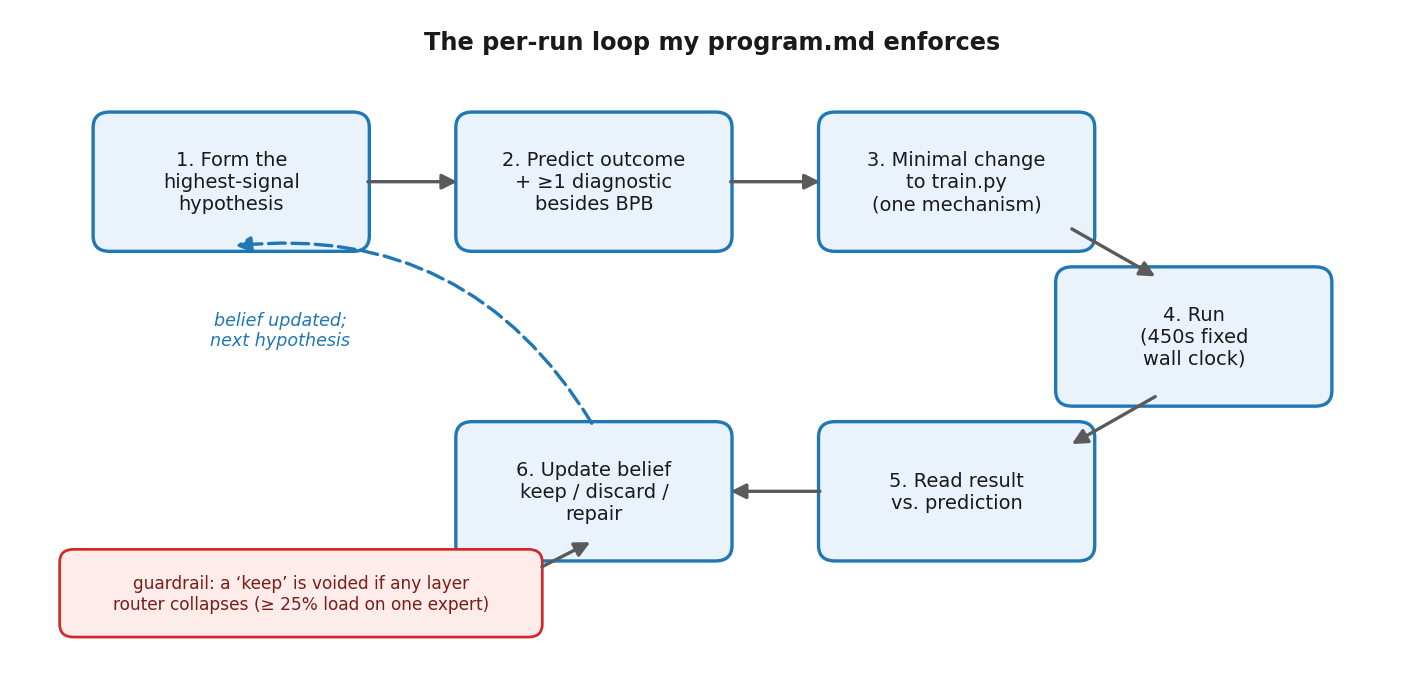
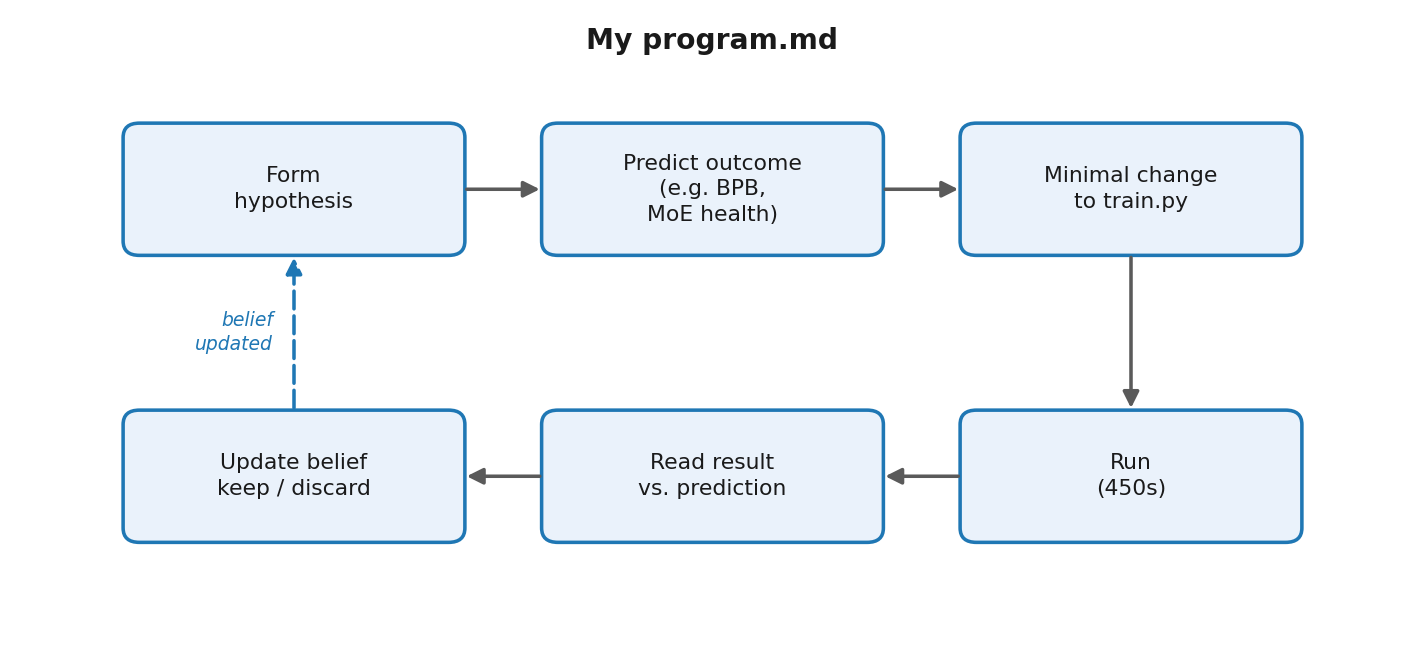
update post

diff --git a/_posts/2026-06-11-speedrunning-moe-architectures.md b/_posts/2026-06-11-speedrunning-moe-architectures.md
@@ -20,21 +20,14 @@ After the [diffusion LM project](/blog/how-long-ar-before-diffusion/), I felt li
 
 **Tl;dr** I didn't manage to get autoresearch to generate interesting ideas that actually work. With Karpathy's `program.md`, Codex (5.5 xhigh) basically just swept a finer and finer grid of hyperparameters. I then iterated through a few versions of the program, eventually getting it to run literature search and propose research, but none of the ideas panned out in the end. This could well be a test-time-compute issue — I only let it work over one night max per attempt. So in the end I did the idea-generation myself and asked Codex to implement techniques like XSA, gated attention, and so on. The one trick Codex found on its own that did work: under a fixed wall-clock budget, making the first two FFN layers dense helps, mostly because it trains faster. To see whether these interventions survive at scale, I wrote a second program for scaling-law experiments, asked Codex to implement and babysit the runs, and collected the results. Excitingly, the gains look real at ~10× the original scale and aren't diminishing! Though of course we'd need to go well beyond the $$\sim 4\times 10^{19}$$ FLOPs of our biggest run to be sure.
 
-For the impatient, here is the speedrun leaderboard — every intervention that became the new fixed-wall best (how each works: Appendix A; how they were found: Phase 1):
+For the impatient, here is the whole speedrun at a glance — every intervention that became the new fixed-wall best, stacking up to −1.75% BPB (how each works: Appendix A; how they were found: Phase 1):
 
-| # | intervention | val BPB | Δ vs prev | cumulative |
-|---|---|---|---|---|
-| 0 | clean simple backbone, LR 0.003 | 0.954881 | — | — |
-| 1 | fixed value mix $$0.5 v_1 + 0.5 v_\ell$$ | 0.947597 | 0.763% | 0.763% |
-| 2 | value mix $$0.75 v_1 + 0.25 v_\ell$$ | 0.945791 | 0.191% | 0.952% |
-| 3 | sigmoid affinities + expert bias + load-balance 0.003 | 0.942848 | 0.311% | 1.260% |
-| 4 | exclusive self-attention | 0.940518 | 0.247% | 1.504% |
-| 5 | headwise attention gate, init 0.95 | 0.940352 | 0.018% | 1.522% |
-| 6 | headwise attention gate, init 0.98 | 0.940076 | 0.029% | 1.550% |
-| 7 | first FFN layer dense | 0.938510 | 0.167% | 1.714% |
-| 8 | first two FFN layers dense | 0.938179 | 0.035% | **1.749%** |
+<figure>
+  <img src="/assets/images/speedrun_progression.png" alt="Phase 1 fixed-wall leaderboard progression from 0.9549 to 0.9382 BPB across eight interventions">
+  <figcaption>The speedrun staircase. Eight successive fixed-wall bests, cumulative −1.75% BPB. Not shown: the much larger number of runs that died on this hill.</figcaption>
+</figure>
 
-A bunch of disclaimers upfront: our MoE router might be suboptimally tuned, though I put significant effort into making it at least *look* healthy; the scaling curve has fewer data points than I'd like; everything is single-seed; and there are no layer-specific hyperparameters like &mu;P (so the embedding layer is likely undertrained), though I did sweep the global learning rate at each scale.
+A bunch of **disclaimers** upfront: our MoE router might be suboptimally tuned, though I put significant effort into making it at least *look* healthy; the scaling curve has fewer data points than I'd like; everything is single-seed; and there are no layer-specific hyperparameters like &mu;P (so the embedding layer is likely undertrained), though I did sweep the global learning rate at each scale.
 
 Still, I'm writing it up anyway. This is a learning process, and hopefully by exposing the process (mistakes included) I can collect some dense reward signals from the experts out there. Let me know if you have any feedback!
 
@@ -71,7 +64,7 @@ Concretely, every run has to walk through this loop:
   <figcaption>The per-run loop the program enforces. The point isn't the boxes; it's that you must write the prediction <em>before</em> the run, so a result can actually surprise you.</figcaption>
 </figure>
 
-> The key discipline is: **pre-register the hypothesis before launching the run, then update the belief after reading the result.** Do not blindly try changes; chase the highest signal.
+> The key discipline is: **write down the hypothesis before launching the run, then update the belief after reading the result.** Do not blindly try changes; chase the highest signal.
 
 Every run entry must contain a pre-run hypothesis, an expected result, the observed result, an interpretation, an explicit `agrees with hypothesis: yes/no/partial`, and a decision. Here's a representative entry from the log, the one where exclusive self-attention got promoted to baseline:
 
@@ -81,7 +74,8 @@ Every run entry must contain a pre-run hypothesis, an expected result, the obser
 >
 > **Observed result:** `val_bpb 0.940518` […] validation improved by `0.002330` BPB. Router health remained acceptable: mean load CV `0.094`, max-layer max load `0.122` […]
 >
-> **Agrees with hypothesis:** yes. **Decision:** keep as current best.
+> **Agrees with hypothesis:** yes. 
+> **Decision:** keep as current best.
 
 Note the expected result names a *router diagnostic*, not just BPB — so the run can fail in an interpretable way (a BPB gain bought with router damage would have been a discard, not a keep). As I write this, I realize what I'm really describing is something like *active learning*: pick the next experiment to maximize information gain. Maybe that's the paradigm I'd advocate for AI scientists.
 
@@ -95,15 +89,7 @@ And I have to say, the output *looks* like research. A representative selection 
 >
 > **Why these two:** They preserve the simple "future supervision" insight without requiring data labels or a new optimizer. TOP wins the first follow-up slot because it can be implemented by gathering logits for future targets and adding a small pairwise ranking loss.
 
-The reading list it built is genuinely diverse and high-signal — selective token losses (Rho-1 style), multi-token and ranking objectives, JEPA-style latent targets, curriculum and data-ordering tricks — and the queue is sensibly prioritized by implementation cost. It even surfaced a real repo-specific insight on its own: the training objective and the eval metric don't line up. Training minimizes the mean cross-entropy over *all* target tokens,
-
-$$\mathcal{L}_{\text{train}} = \frac{1}{N}\sum_{t=1}^{N} \text{CE}_t,$$
-
-while the benchmark (reading the actual `evaluate_bpb`) sums cross-entropy over only the *non-special* tokens and normalizes by total bytes,
-
-$$\text{BPB} = \frac{1}{\ln 2}\cdot\frac{\sum_{t:\, b_t > 0} \text{CE}_t}{\sum_{t} b_t}, \qquad b_t = \text{byte length of token } t,$$
-
-so the zero-byte special tokens (BOS and friends) are dropped from the numerator entirely. Two mismatches fall out: training spends gradient on special tokens the metric ignores, and it normalizes per *token* rather than per *byte*. Codex's proposed one-line fix was to byte-weight the per-token CE; amusingly, when I worked through the evaluator above I think byte-weighting actually over-counts long tokens, and the cleaner alignment is just to mask the zero-byte targets — but either way, "objective ≠ metric" is exactly the kind of thing worth catching, and chasing it down is queued for the next phase.
+The reading list it built is genuinely diverse and high-signal — selective token losses (Rho-1 style), multi-token and ranking objectives, JEPA-style latent targets, curriculum and data-ordering tricks — and the queue is sensibly prioritized by implementation cost. One idea I found genuinely novel: a *byte-weighted* cross-entropy, where each token's loss is scaled by its byte length, on the reasoning that the eval metric (BPB) is measured per byte. I don't think it's especially well-motivated in the end — the standard per-token cross-entropy is already aligned with BPB up to a constant — and when we actually tried it, it didn't help. But I'd never seen it before, and "invent a plausible-looking loss I haven't seen" is at least a different failure mode from "tweak the learning rate."
 
 But when its ideas were actually implemented and tested, none of them earned a keep. My current guess is test-time compute: one night is enough to scan and rank a literature, but probably not enough to iterate on any single idea until the finicky details that make a paper's trick work are faithfully reproduced. I'd honestly like to be wrong here, and I want to rerun this loop someday with a much bigger inference budget.
 
@@ -118,12 +104,19 @@ The details follow.
 
 ### The speedrun
 
-The starting point is deliberately boring: an 8-layer, 768-dim transformer, 16 experts with top-2 routing and softmax token-choice, GQA + RoPE + QK-norm. From there, Codex worked through the intervention queue. The leaderboard at the top of the post lists every run that became the new best; rather than narrate all ~30 runs, here is the progression at a glance and then the three stories I think teach the most.
+The starting point is deliberately boring: an 8-layer, 768-dim transformer, 16 experts with top-2 routing and softmax token-choice, GQA + RoPE + QK-norm. From there, Codex worked through the intervention queue. Here is the full leaderboard — every run that became the new best (math and code for each in Appendix A); rather than narrate all ~30 runs, I'll then tell the three stories I think teach the most.
 
-<figure>
-  <img src="/assets/images/speedrun_progression.png" alt="Phase 1 fixed-wall leaderboard progression from 0.9549 to 0.9382 BPB across eight interventions">
-  <figcaption>The speedrun staircase. Eight successive fixed-wall bests, cumulative −1.75% BPB. Not shown: the much larger number of runs that died on this hill. Math and code for each intervention are in Appendix A.</figcaption>
-</figure>
+| # | intervention | val BPB | Δ vs prev | cumulative |
+|---|---|---|---|---|
+| 0 | clean simple backbone, LR 0.003 | 0.954881 | — | — |
+| 1 | fixed value mix $$0.5 v_1 + 0.5 v_\ell$$ | 0.947597 | 0.763% | 0.763% |
+| 2 | value mix $$0.75 v_1 + 0.25 v_\ell$$ | 0.945791 | 0.191% | 0.952% |
+| 3 | sigmoid affinities + expert bias + load-balance 0.003 | 0.942848 | 0.311% | 1.260% |
+| 4 | exclusive self-attention | 0.940518 | 0.247% | 1.504% |
+| 5 | headwise attention gate, init 0.95 | 0.940352 | 0.018% | 1.522% |
+| 6 | headwise attention gate, init 0.98 | 0.940076 | 0.029% | 1.550% |
+| 7 | first FFN layer dense | 0.938510 | 0.167% | 1.714% |
+| 8 | first two FFN layers dense | 0.938179 | 0.035% | **1.749%** |
 
 #### Story 1: the value residual that failed, and the diagnostic that explained why
 
@@ -192,12 +185,20 @@ So maybe I was wrong: sparser is not always better, even with effectively infini
 | F3 | 352M | 7.0B | 0.765974 | — | — |
 | F4 | 565M | 11.3B | 0.736565 | — | — |
 
+Since each size is trained roughly Chinchilla-optimally (~20 tokens per active parameter), I can put all five full-recipe points on a single compute axis, $$C = 6ND$$ FLOPs (with $$N$$ active params and $$D$$ tokens), and ask whether they follow a scaling law. The usual form is a power law with an irreducible-loss offset,
+
+$$L(C) = \frac{A}{C^{\alpha}} + B.$$
+
+Fitting this to the four smaller points (S75–F3) and holding out F4 turns out to be instructive: with only four points the offset $$B$$ is badly under-determined — left unconstrained it runs to a nonsensical negative value, and the moment I bound it to be physical it collapses to $$B = 0$$. In other words, over this ~20× span of fitted compute the data simply don't yet bend enough to pin down a floor; they're well described by a plain power law, $$L \approx 0.888\,(C/10^{18})^{-0.055}$$. The exponent is tiny — loss falls slowly in compute, as it always does for language models — but the fit is clean (residuals under 0.005 BPB).
+
+Extrapolating that fit out to F4's compute ($$3.8\times10^{19}$$ FLOPs, ~2.6× beyond the last fitted point) predicts BPB **0.728**, while the actual F4 run came in at **0.737** — about **1.2% higher** than the trend. So the held-out point lands close, but on the *worse* side: F4 slightly underperforms its own extrapolation. That's the expected direction if F4 is a touch undertrained — recall its lower-LR arm was aborted before finishing — so I read this less as "the scaling law broke" and more as "I didn't tune F4 as carefully as the smaller points." Either way, a single held-out decade of compute landing within ~1% is more than I expected from five single-seed runs.
+
 <figure>
-  <img src="/assets/images/scaling_full_vs_simple.png" alt="Left: compute-optimal validation BPB vs active parameters for the full recipe (S75 through F4), the simple control (S75 through F2), and the all-MoE ablation (S75 through F2, with a router warning marker at F1). Right: grouped bars of relative BPB reduction vs the simple control — full recipe: 1.49%, tie, 2.72%; all-MoE: 1.83%, 1.87%, 2.36%">
-  <figcaption>Left: the compute-optimal curves. The full recipe scales smoothly to 565M active params with healthy routing throughout; the dashed all-MoE ablation (next section) is the same recipe minus the dense stem. Right: the architecture gap vs the simple control. The full recipe's gap is scale-positive but non-monotone, with a dead tie at F1; the all-MoE gap is consistent at every size. The non-monotonicity was the dense stem's doing.</figcaption>
+  <img src="/assets/images/scaling_full_vs_simple.png" alt="Compute-optimal validation BPB versus training FLOPs. The full-recipe points (S75 through F4) follow a blue power-law fit trained on S75 through F3, drawn solid and extrapolated as a dotted line to F4, where the predicted 0.728 sits just below the actual 0.737. The simple control and all-MoE ablation curves run from S75 to F2.">
+  <figcaption>Compute-optimal scaling on a $$C=6ND$$ FLOPs axis. The blue power-law fit on S75–F3 (solid, dotted past F3) extrapolates to F4 within ~1.2% — the open circle is the prediction, the filled point the actual. The full recipe scales smoothly to 565M active params with healthy routing throughout; the all-MoE ablation (dashed green, next section) drops the dense stem.</figcaption>
 </figure>
 
-A few observations:
+A few more observations:
 
 **The stack scales mechanically and stays healthy.** Up to 565M active (3.3B total) parameters, there were no divergences, no router collapse, and near-uniform max-layer expert load at every size. That sounds like faint praise, but it isn't: the simple control at F2 suffered repeated transient loss spikes above 6 during training and finished with a mean load CV of 0.52, against the full recipe's 0.075. Part of what the intervention stack buys is apparently not lower loss but *lower variance and router sanity at scale* — which, at real scale, is worth more than the BPB itself, since a diverged run returns nothing.
 
@@ -207,7 +208,7 @@ A few observations:
 
 The two-dense stem is a crutch, and in the long run I'd like to drop it — once I've learned the modern tricks for stabilizing pure MoEs (Quantile Balancing, etc.), the early dense layers shouldn't be necessary. So I ran the **all-MoE ablation**: the full intervention stack with the dense stem removed, every FFN layer sparse. The result was the most surprising of the project, and it's what made me rewrite my reading of the whole curve.
 
-At small scale, all-MoE *wins*: it beats the two-dense recipe by 0.0031 BPB at S75 and by a striking 0.0167 BPB at F1 (0.875 vs 0.892). Recompute the gap-vs-simple curve using all-MoE instead, and the embarrassing non-monotonicity nearly vanishes — 1.83% at S75, 1.87% at F1, 2.36% at F2 (the green bars in the figure above). In other words, the *quality* gain from the intervention bundle was consistent across scales all along; the F1 tie was the dense stem quietly giving that gain back. Under the fixed-wall speedrun, the stem's throughput advantage hid this completely; under compute-optimal budgets, where speed buys nothing, the first two dense layers turn out to be a quality *cost* at small scale.
+At small scale, all-MoE *wins*: it beats the two-dense recipe by 0.0031 BPB at S75 and by a striking 0.0167 BPB at F1 (0.875 vs 0.892) — that's the dashed green curve dipping below the blue one at the left of the figure. Recompute the gap against the simple control using all-MoE instead of the two-dense recipe, and the embarrassing non-monotonicity nearly vanishes: 1.83% at S75, 1.87% at F1, 2.36% at F2. In other words, the *quality* gain from the intervention bundle was consistent across scales all along; the F1 tie was the dense stem quietly giving that gain back. Under the fixed-wall speedrun, the stem's throughput advantage hid this completely; under compute-optimal budgets, where speed buys nothing, the first two dense layers turn out to be a quality *cost* at small scale.
 
 But — and this is why I can't just delete the stem yet — the all-MoE F1 run finished with one router layer at max load 0.253, just over my 0.25 safety threshold, the only compute-optimal run in the whole project to cross it. And at F2 all-MoE flips to *losing*: 0.0031 BPB worse and meaningfully slower (23.5% vs 25.7% MFU, since every layer now pays dispatch overhead). The pattern across the three sizes is uncomfortable: at LR 0.003 the all-MoE model grows a hot layer as it scales; at F2's gentler LR 0.001 it stays clean but can't keep up. Either you flirt with instability or you pay a tax to avoid it. Seen this way, the dense stem was never really a quality intervention — it's a *stabilizer* whose price grows with the compute budget, which is presumably why DeepSeek-V3 (trained at fixed token budgets, not fixed wall-clock) still ships dense early layers: at their scale, the insurance is worth it.
 
@@ -218,7 +219,7 @@ The model I actually want — fully sparse, no crutch, stable at every size — 
 
 Working with an AI agent on a research project was genuinely fun, and it made the whole learning experience much faster. For my own benefit, let me record where I land on "AI as an AI researcher" right now:
 
-**Great at:** execution fidelity, log discipline, and *negative-result hygiene*. It never quietly dropped a failed run, always wrote down matched-step comparisons with exact numbers, aborted runs against pre-registered criteria instead of hope, and once spent a whole diagnostic run instrumenting gradients to figure out *why* an idea failed rather than just recording *that* it did (this took some context engineering on my part; see Story 1). A surprising fraction of human research pathology is simply absent by default.
+**Great at:** execution fidelity, log discipline, and *negative-result hygiene*. It never quietly dropped a failed run, always wrote down matched-step comparisons with exact numbers, aborted runs against criteria written down in advance instead of on hope, and once spent a whole diagnostic run instrumenting gradients to figure out *why* an idea failed rather than just recording *that* it did (this took some context engineering on my part; see Story 1). A surprising fraction of human research pathology is simply absent by default.
 
 **Bad at:** knowing which question is worth asking next. Its failure mode isn't laziness — it's a kind of diligent myopia, generating an endless sequence of locally-justified next steps down whatever gradient is in front of it (finer LR grids, an eighth depth-scaling variant). And when I explicitly asked for creativity via the literature-search program, I got ideas that *sounded* interesting but didn't land — plausibly for lack of iteration compute, as I keep saying.
 
@@ -340,7 +341,7 @@ class Block(nn.Module):
 
 For completeness, everything that was tried and rejected in the clean lineage, with the one-line reason. Learned scalar first-value residual (disturbed routing before helping; see Story 1). Learned and normalized-learned value mixes (stabilizable by the sigmoid/bias router, but quality never matched the fixed mix). Aggressive fixed mixes 2:1, 3:1 (worse matched-step loss even with a healthy router — a quality failure, not a stability one). Fine-grained experts 32/top-4/896 (lost three times, ~0.018 BPB, despite cleaner per-expert load). Sigmoid affinities *without* bias (early matched-step edge that evaporated by run end). Softmax + light load-balance control (the run that earned the router its keep). Eight depth-scaling variants (every placement of $$1/\sqrt{\ell}$$ lost; internal worst, output-side least bad; consistent story: this model wants full-amplitude branches). Centered $$2\sigma$$ attention gate (won warmup, lost training). Third dense layer (saturation). Attention-gate init 0.99 (tie with 0.98, kept 0.98). E ∈ {4, 8, 32, 64, 128} (the U-curve). LRs 0.01 and 0.001 at 91M fixed-wall, 0.003 and 0.000333 at F2, 0.003 at F3, 0.0003 at F4 (the moving optimum).
 
-Every one of these has a full pre-registered entry in the research log. The discard pile is the dataset; the leaderboard is just its argmax.
+Every one of these has a full entry in the research log, hypothesis written down before the run. The discard pile is the dataset; the leaderboard is just its argmax.
 
 ---
 